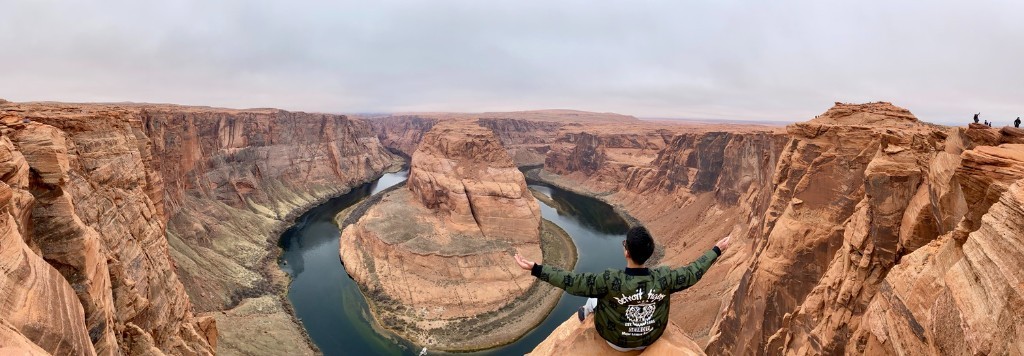
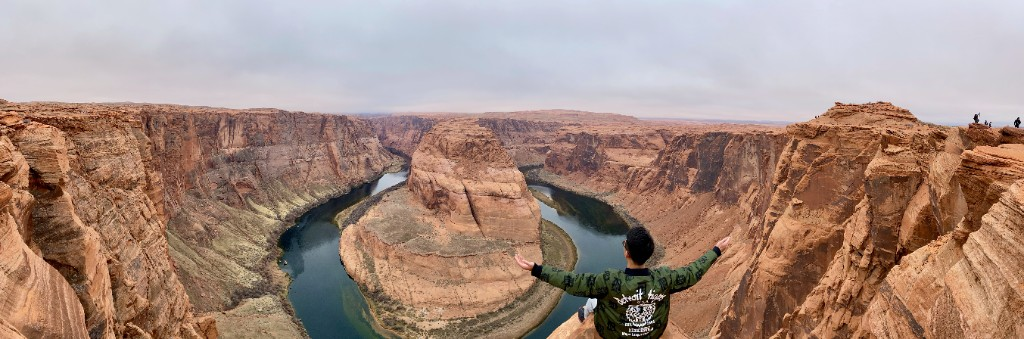
Replace hero background with Horseshoe Bend panorama
Made-with: Cursor

diff --git a/index.html b/index.html
@@ -12,7 +12,7 @@
 </head>
 <body>
   <header class="site-header">
-    <img class="site-header-bg-img" src="assets/hero-bg.png" alt="" width="1024" height="356" decoding="async" fetchpriority="high" aria-hidden="true">
+    <img class="site-header-bg-img" src="assets/hero-bg.png" alt="" width="1024" height="339" decoding="async" fetchpriority="high" aria-hidden="true">
     <div class="container">
       <div class="topbar">
         <div class="brand">
